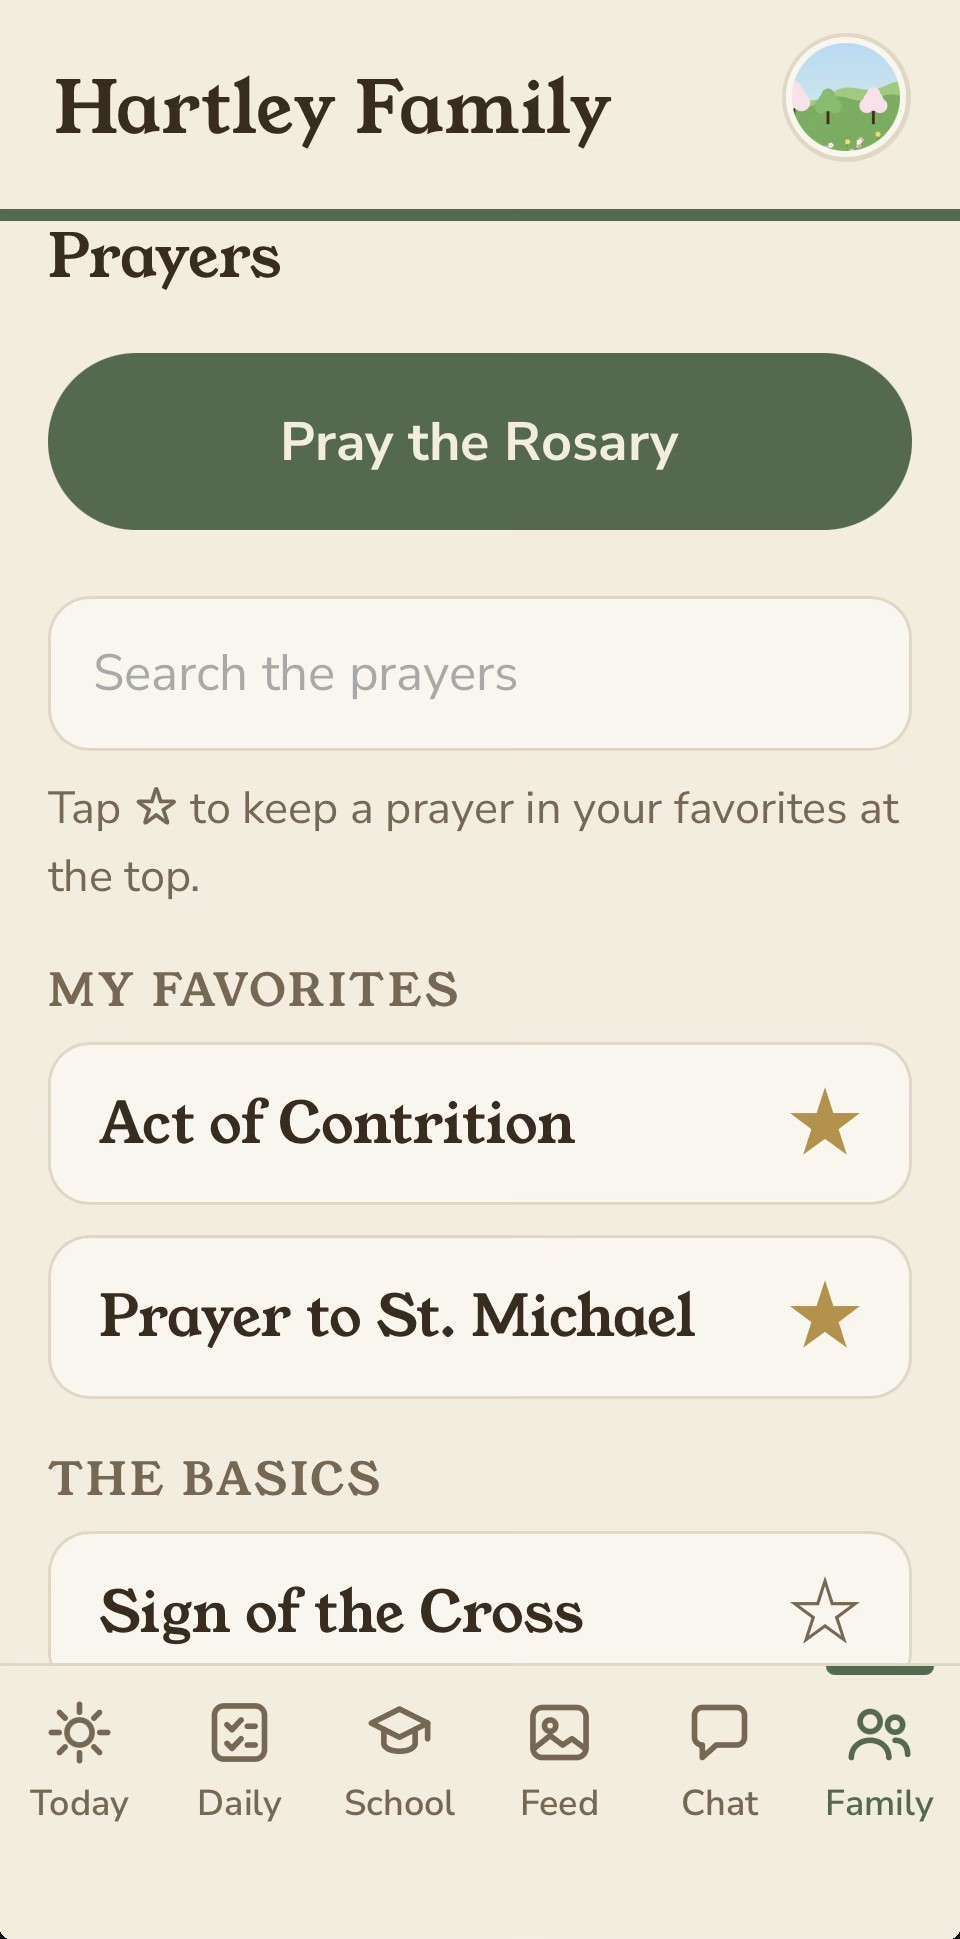
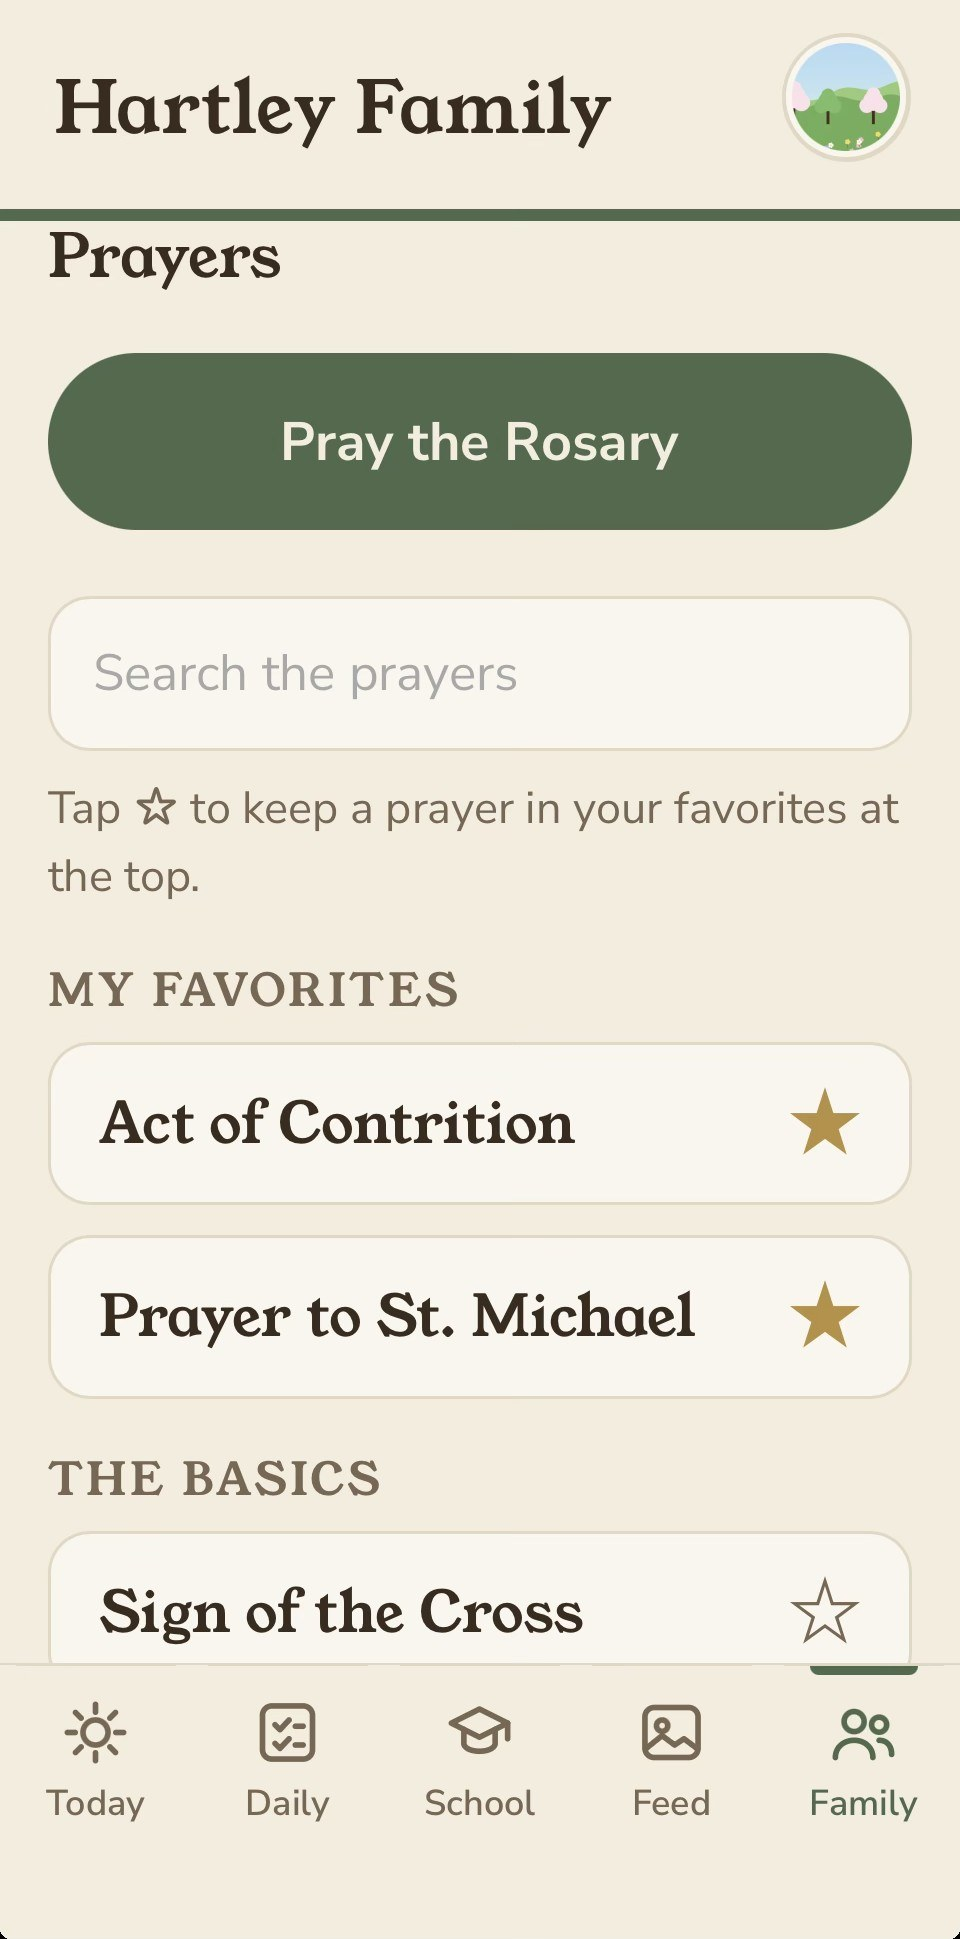
Website check fixes: waitlist timing, Chat-free pictures, link previews, not-found page
- Waitlist: the too-fast spam check now drops only sign-ups under 1 second (was 3), so autofill users are saved
- Features: prayer and school pictures no longer show a Chat tab (Chat starts off)
- Help: backup answer says photos are kept separately
- Privacy: 'recipes' (shelved) replaced with 'calendar'
- Home: 'No ads, nothing public'; price and waitlist text in one voice ('I')
- Link previews (title, summary, picture) on every page, new share card logo/share.jpg
- New 404 page instead of showing the home page for bad addresses
- Home: 'Private by design' box fits 320px phones

Claude-Session: https://claude.ai/code/session_015jS7JJZ2ymv8CCRM2Bdkri

diff --git a/index.html b/index.html
@@ -15,8 +15,9 @@
 <meta charset="utf-8"><meta name="viewport" content="width=device-width, initial-scale=1">
 <title>My Domestic Church</title>
 <meta name="description" content="Private family sites for Catholic homeschool families.">
+<meta property="og:type" content="website"><meta property="og:site_name" content="My Domestic Church"><meta property="og:title" content="My Domestic Church"><meta property="og:description" content="Private family sites for Catholic homeschool families."><meta property="og:url" content="https://mydomesticchurch.org/"><meta property="og:image" content="https://mydomesticchurch.org/logo/share.jpg"><meta name="twitter:card" content="summary_large_image">
 <meta name="theme-color" content="#2F3D2B">
-<link rel="stylesheet" href="/home.css?v=5"><link rel="stylesheet" href="/header.css?v=2"></head><body>
+<link rel="stylesheet" href="/home.css?v=6"><link rel="stylesheet" href="/header.css?v=2"></head><body>
 <div class="top"><div class="wrap">
  <a class="logo" href="/"><img src="/logo/crest-shield.svg" alt="">My Domestic Church</a>
  <nav class="mnav" aria-label="Main">
@@ -39,7 +40,7 @@
  <div><div class="phone"><div class="scr"><img src="/shots/today.jpg" alt="Today screen"></div></div></div>
 </div></header>
 
-<div class="strip"><div class="wrap"><span>Your own address</span><span>Your own data</span><span>No ads, no social feed</span><span>No app to install</span><span>$10 a month</span></div></div>
+<div class="strip"><div class="wrap"><span>Your own address</span><span>Your own data</span><span>No ads, nothing public</span><span>No app to install</span><span>$10 a month</span></div></div>
 
 <section id="day"><div class="wrap">
  <div class="head"><div class="caps">A day in a domestic church</div><h2>Everyone knows what's next.</h2><p>Each person signs in and sees their own day. Parents see what needs a look. Kids see their chores and lessons.</p></div>
@@ -87,7 +88,7 @@
  <div class="price"><div class="caps">Simple pricing</div><div class="amt" style="margin:14px 0 6px"><span id="price-monthly">$10</span><small> / month per family</small></div><p style="color:var(--muted)">First 30 days free. No tiers, no setup fee.</p>
   <ul><li>As many family members as you like</li><li>Every feature included</li><li>I set it up for you</li><li>Personal help from a real person</li></ul>
   <a class="btn gold" style="margin-top:24px" href="#waitlist">Join the waitlist</a>
-  <p style="color:var(--muted);font-size:.88rem;margin:14px 0 0">We are testing with a few families first. Join the waitlist and I will write when there is a place for you.</p></div>
+  <p style="color:var(--muted);font-size:.88rem;margin:14px 0 0">I am testing with a few families first. Join the waitlist and I will write when there is a place for you.</p></div>
 </div></section>
 
 <section class="alt"><div class="wrap faq">
@@ -105,7 +106,7 @@
  <img src="/logo/crest-seal.svg" alt="My Domestic Church seal">
  <div class="caps">Now inviting families in small groups</div>
  <h2>Join the waitlist.</h2>
- <p>We are testing with a few homeschool families first. Tell me a little about yours, and I will write when there is a place for you.</p>
+ <p>I am testing with a few homeschool families first. Tell me a little about yours, and I will write when there is a place for you.</p>
  <form class="wl" id="wl-form" novalidate>
   <div class="wl-row">
    <label for="wl-name">Your name<input id="wl-name" name="name" autocomplete="name" required maxlength="100"></label>

diff --git a/404.html b/404.html
@@ -1,0 +1,41 @@
+<!doctype html>
+<html lang="en"><head>
+<link rel="icon" href="/favicon.ico" sizes="any">
+<link rel="icon" href="/logo/crest-shield.svg" type="image/svg+xml">
+<link rel="apple-touch-icon" href="/logo/apple-touch-icon.png">
+<!-- Google tag (gtag.js) -->
+<script async src="https://www.googletagmanager.com/gtag/js?id=G-GP95698Y2Q"></script>
+<script>
+  window.dataLayer = window.dataLayer || [];
+  function gtag(){dataLayer.push(arguments);}
+  gtag('js', new Date());
+
+  gtag('config', 'G-GP95698Y2Q');
+</script>
+<meta charset="utf-8"><meta name="viewport" content="width=device-width, initial-scale=1">
+<title>Page not found | My Domestic Church</title><meta name="robots" content="noindex"><meta name="theme-color" content="#566B4F">
+<link rel="stylesheet" href="/style.css?v=12"><link rel="stylesheet" href="/header.css?v=2"></head><body>
+<div class="top"><div class="wrap">
+  <a class="logo" href="/"><img src="/logo/crest-shield.svg" alt="">My Domestic Church</a>
+  <nav class="mnav" aria-label="Main">
+  <a href="/features">Features</a><a href="/our-story">Our story</a><a href="/blog">Blog</a><a href="/help">Help</a>
+  <details class="menu"><summary><span class="bars" aria-hidden="true"></span>Menu</summary>
+   <div class="menu-panel"><a href="/">Home</a><a href="/features">Features</a><a href="/screens">Screens &amp; family life</a><a href="/rewards">Rewards &amp; store</a><a href="/our-story">Our story</a><a href="/blog">Blog</a><a href="/help">Help</a><a href="/privacy">Privacy</a><a class="hbtn" href="/#waitlist">Join the waitlist</a></div>
+  </details>
+  <a class="hbtn" href="/#waitlist">Join the waitlist</a>
+ </nav>
+</div></div>
+<main class="page"><div class="wrap prose"><style>.prose a{color:var(--red)}</style>
+<p class="eyebrow">Page not found</p>
+<h1>We couldn't find that page</h1>
+<p>The link may be old, or the address may have a typo.</p>
+<p><a href="/">Go to the home page</a>, see <a href="/features">what's inside</a>, or find an answer in <a href="/help">Help</a>.</p>
+<p>Looking for your family's own site? Use the address your family was given, such as <em>yourfamily.mydomesticchurch.org</em>.</p>
+</div></main>
+<footer>
+  <nav><a href="/">Home</a><a href="/features">Features</a><a href="/screens">Screens &amp; family life</a><a href="/rewards">Rewards &amp; store</a><a href="/our-story">Our story</a><a href="/blog">Blog</a><a href="/help">Help</a><a href="/privacy">Privacy</a><a href="/#contact">Contact</a></nav>
+  <em>Ad majorem Dei gloriam</em>
+  &copy; My Domestic Church &middot; mydomesticchurch.org
+</footer>
+<script src="/site.js?v=4"></script>
+</body></html>

diff --git a/privacy.html b/privacy.html
@@ -13,7 +13,8 @@
   gtag('config', 'G-GP95698Y2Q');
 </script>
 <meta charset="utf-8"><meta name="viewport" content="width=device-width, initial-scale=1">
-<title>Privacy | My Domestic Church</title><meta name="description" content="How My Domestic Church treats your family's information."><meta name="theme-color" content="#566B4F">
+<title>Privacy | My Domestic Church</title><meta name="description" content="How My Domestic Church treats your family's information.">
+<meta property="og:type" content="website"><meta property="og:site_name" content="My Domestic Church"><meta property="og:title" content="Privacy | My Domestic Church"><meta property="og:description" content="How My Domestic Church treats your family's information."><meta property="og:url" content="https://mydomesticchurch.org/privacy"><meta property="og:image" content="https://mydomesticchurch.org/logo/share.jpg"><meta name="twitter:card" content="summary_large_image"><meta name="theme-color" content="#566B4F">
 <link rel="stylesheet" href="/style.css?v=12"><link rel="stylesheet" href="/header.css?v=2"></head><body>
 <div class="top"><div class="wrap">
   <a class="logo" href="/"><img src="/logo/crest-shield.svg" alt="">My Domestic Church</a>
@@ -31,7 +32,7 @@
 <p>Plain words, no legal fog. Draft: this page will be checked against the final privacy statement before the first families sign up.</p>
 <h2>What we keep</h2>
 <ul><li>Your sign-up details: family name, your name, email and chosen web address.</li>
-<li>What your family puts in its site: schedule, prayers, recipes, photos, school records and so on.</li>
+<li>What your family puts in its site: schedule, prayers, calendar, photos, school records and so on.</li>
 <li>Your answers to the setup form, which I delete within 30 days after your site is built.</li>
 <li>If you join the waitlist: your name, email, your children's ages and anything you write in the form. I use it only to invite you, and to send occasional updates if you ticked that box. I delete it if you ask.</li></ul>
 <h2>Each family is separate</h2>

diff --git a/help.html b/help.html
@@ -13,7 +13,8 @@
   gtag('config', 'G-GP95698Y2Q');
 </script>
 <meta charset="utf-8"><meta name="viewport" content="width=device-width, initial-scale=1">
-<title>Help | My Domestic Church</title><meta name="description" content="Answers and short how-tos for families using the My Domestic Church app: signing in, alerts, chores, school, prayer, printing and more."><meta name="theme-color" content="#566B4F">
+<title>Help | My Domestic Church</title><meta name="description" content="Answers and short how-tos for families using the My Domestic Church app: signing in, alerts, chores, school, prayer, printing and more.">
+<meta property="og:type" content="website"><meta property="og:site_name" content="My Domestic Church"><meta property="og:title" content="Help | My Domestic Church"><meta property="og:description" content="Answers and short how-tos for families using the My Domestic Church app: signing in, alerts, chores, school, prayer, printing and more."><meta property="og:url" content="https://mydomesticchurch.org/help"><meta property="og:image" content="https://mydomesticchurch.org/logo/share.jpg"><meta name="twitter:card" content="summary_large_image"><meta name="theme-color" content="#566B4F">
 <link rel="stylesheet" href="/style.css?v=12"><link rel="stylesheet" href="/header.css?v=2"></head><body>
 <div class="top"><div class="wrap">
   <a class="logo" href="/"><img src="/logo/crest-shield.svg" alt="">My Domestic Church</a>
@@ -286,7 +287,7 @@
 </div></details>
 
 <details id="backups"><summary>Is our data backed up?</summary><div class="ans">
-<p>Yes. A copy of everything is made every week. The family admin can also make one any time: tap the gear, then <strong>Backups</strong>.</p>
+<p>Yes. A copy of your family's information is made every week. Photos are kept separately and are not part of that copy. The family admin can also make one any time: tap the gear, then <strong>Backups</strong>.</p>
 </div></details>
 
 <details id="cost"><summary>How much does it cost?</summary><div class="ans">

diff --git a/rewards.html b/rewards.html
@@ -13,7 +13,8 @@
   gtag('config', 'G-GP95698Y2Q');
 </script>
 <meta charset="utf-8"><meta name="viewport" content="width=device-width, initial-scale=1">
-<title>Rewards &amp; store | My Domestic Church</title><meta name="description" content="How chores, deadlines, points and the family store work in My Domestic Church. All optional."><meta name="theme-color" content="#566B4F">
+<title>Rewards &amp; store | My Domestic Church</title><meta name="description" content="How chores, deadlines, points and the family store work in the My Domestic Church app. All optional.">
+<meta property="og:type" content="website"><meta property="og:site_name" content="My Domestic Church"><meta property="og:title" content="Rewards &amp; store | My Domestic Church"><meta property="og:description" content="How chores, deadlines, points and the family store work in the My Domestic Church app. All optional."><meta property="og:url" content="https://mydomesticchurch.org/rewards"><meta property="og:image" content="https://mydomesticchurch.org/logo/share.jpg"><meta name="twitter:card" content="summary_large_image"><meta name="theme-color" content="#566B4F">
 <link rel="stylesheet" href="/style.css?v=12"><link rel="stylesheet" href="/header.css?v=2"></head><body>
 <div class="top"><div class="wrap">
   <a class="logo" href="/"><img src="/logo/crest-shield.svg" alt="">My Domestic Church</a>

diff --git a/screens.html b/screens.html
@@ -13,7 +13,8 @@
   gtag('config', 'G-GP95698Y2Q');
 </script>
 <meta charset="utf-8"><meta name="viewport" content="width=device-width, initial-scale=1">
-<title>Screens and family life | My Domestic Church</title><meta name="description" content="Why this app is built to be checked quickly and put down."><meta name="theme-color" content="#566B4F">
+<title>Screens and family life | My Domestic Church</title><meta name="description" content="Why this app is built to be checked quickly and put down.">
+<meta property="og:type" content="website"><meta property="og:site_name" content="My Domestic Church"><meta property="og:title" content="Screens and family life | My Domestic Church"><meta property="og:description" content="Why this app is built to be checked quickly and put down."><meta property="og:url" content="https://mydomesticchurch.org/screens"><meta property="og:image" content="https://mydomesticchurch.org/logo/share.jpg"><meta name="twitter:card" content="summary_large_image"><meta name="theme-color" content="#566B4F">
 <link rel="stylesheet" href="/style.css?v=12"><link rel="stylesheet" href="/header.css?v=2"></head><body>
 <div class="top"><div class="wrap">
   <a class="logo" href="/"><img src="/logo/crest-shield.svg" alt="">My Domestic Church</a>

diff --git a/our-story.html b/our-story.html
@@ -13,7 +13,8 @@
   gtag('config', 'G-GP95698Y2Q');
 </script>
 <meta charset="utf-8"><meta name="viewport" content="width=device-width, initial-scale=1">
-<title>Our story | My Domestic Church</title><meta name="description" content="Why Darwin, a homeschool dad, built the My Domestic Church app."><meta name="theme-color" content="#566B4F">
+<title>Our story | My Domestic Church</title><meta name="description" content="Why Darwin, a homeschool dad, built the My Domestic Church app.">
+<meta property="og:type" content="website"><meta property="og:site_name" content="My Domestic Church"><meta property="og:title" content="Our story | My Domestic Church"><meta property="og:description" content="Why Darwin, a homeschool dad, built the My Domestic Church app."><meta property="og:url" content="https://mydomesticchurch.org/our-story"><meta property="og:image" content="https://mydomesticchurch.org/logo/share.jpg"><meta name="twitter:card" content="summary_large_image"><meta name="theme-color" content="#566B4F">
 <link rel="stylesheet" href="/style.css?v=12"><link rel="stylesheet" href="/header.css?v=2"></head><body>
 <div class="top"><div class="wrap">
   <a class="logo" href="/"><img src="/logo/crest-shield.svg" alt="">My Domestic Church</a>

diff --git a/features.html b/features.html
@@ -13,7 +13,8 @@
   gtag('config', 'G-GP95698Y2Q');
 </script>
 <meta charset="utf-8"><meta name="viewport" content="width=device-width, initial-scale=1">
-<title>Features | My Domestic Church</title><meta name="description" content="What is inside a My Domestic Church family site."><meta name="theme-color" content="#566B4F">
+<title>Features | My Domestic Church</title><meta name="description" content="What is inside a My Domestic Church family site.">
+<meta property="og:type" content="website"><meta property="og:site_name" content="My Domestic Church"><meta property="og:title" content="Features | My Domestic Church"><meta property="og:description" content="What is inside a My Domestic Church family site."><meta property="og:url" content="https://mydomesticchurch.org/features"><meta property="og:image" content="https://mydomesticchurch.org/logo/share.jpg"><meta name="twitter:card" content="summary_large_image"><meta name="theme-color" content="#566B4F">
 <link rel="stylesheet" href="/style.css?v=12"><link rel="stylesheet" href="/header.css?v=2"></head><body>
 <div class="top"><div class="wrap">
   <a class="logo" href="/"><img src="/logo/crest-shield.svg" alt="">My Domestic Church</a>

diff --git a/blog.html b/blog.html
@@ -13,7 +13,8 @@
   gtag('config', 'G-GP95698Y2Q');
 </script>
 <meta charset="utf-8"><meta name="viewport" content="width=device-width, initial-scale=1">
-<title>Blog | My Domestic Church</title><meta name="description" content="Stories and notes from a Catholic homeschool family."><meta name="theme-color" content="#566B4F">
+<title>Blog | My Domestic Church</title><meta name="description" content="Stories and notes from a Catholic homeschool family.">
+<meta property="og:type" content="website"><meta property="og:site_name" content="My Domestic Church"><meta property="og:title" content="Blog | My Domestic Church"><meta property="og:description" content="Stories and notes from a Catholic homeschool family."><meta property="og:url" content="https://mydomesticchurch.org/blog"><meta property="og:image" content="https://mydomesticchurch.org/logo/share.jpg"><meta name="twitter:card" content="summary_large_image"><meta name="theme-color" content="#566B4F">
 <link rel="stylesheet" href="/style.css?v=12"><link rel="stylesheet" href="/header.css?v=2"></head><body>
 <div class="top"><div class="wrap">
   <a class="logo" href="/"><img src="/logo/crest-shield.svg" alt="">My Domestic Church</a>

diff --git a/blog/a-stay-at-home-dads-confession.html b/blog/a-stay-at-home-dads-confession.html
@@ -15,6 +15,7 @@
 <meta charset="utf-8"><meta name="viewport" content="width=device-width, initial-scale=1">
 <title>A stay-at-home dad's confession | My Domestic Church</title><meta name="description" content="Why Darwin, a stay-at-home dad, started the My Domestic Church app."><meta name="theme-color" content="#566B4F">
 <meta property="og:title" content="A stay-at-home dad's confession"><meta property="og:image" content="https://mydomesticchurch.org/blog/img/confession-header.jpg">
+<meta property="og:type" content="article"><meta property="og:site_name" content="My Domestic Church"><meta property="og:description" content="Why Darwin, a stay-at-home dad, started the My Domestic Church app."><meta property="og:url" content="https://mydomesticchurch.org/blog/a-stay-at-home-dads-confession"><meta name="twitter:card" content="summary_large_image">
 <link rel="stylesheet" href="/style.css?v=12"><link rel="stylesheet" href="/header.css?v=2"></head><body>
 <div class="top"><div class="wrap">
   <a class="logo" href="/"><img src="/logo/crest-shield.svg" alt="">My Domestic Church</a>

diff --git a/functions/api/waitlist.js b/functions/api/waitlist.js
@@ -11,7 +11,7 @@ export async function onRequestPost({ request, env }) {
   try { d = await request.json(); } catch { return json({ error: 'Sorry, that did not go through. Please try again.' }, 400); }
 
   // Spam guard: a hidden field people never see, and a form filled in faster than a person could.
-  if (d.website || Number(d.ms) < 3000) return json({ ok: true });
+  if (d.website || Number(d.ms) < 1000) return json({ ok: true });
 
   const name = clean(d.name, 100), email = clean(d.email, 200).toLowerCase(), kids = clean(d.kids, 300);
   const updates = d.updates === true ? 1 : 0;

diff --git a/home.css b/home.css
@@ -55,6 +55,7 @@ section{padding:96px 0}
 .quote cite{font-style:normal;color:var(--muted);font-size:.9rem}
 /* private + price */
 .two{display:grid;grid-template-columns:1fr 1fr;gap:28px}
+.two>*{min-width:0}.dark li{overflow-wrap:anywhere}
 .dark{background:var(--deep);color:#E9E2D2;border-radius:10px;padding:44px}
 .dark h2{color:#fff;font-size:1.9rem}.dark p{color:#CFC8B6}
 .dark ul,.price ul{list-style:none;padding:0;margin:22px 0 0}
